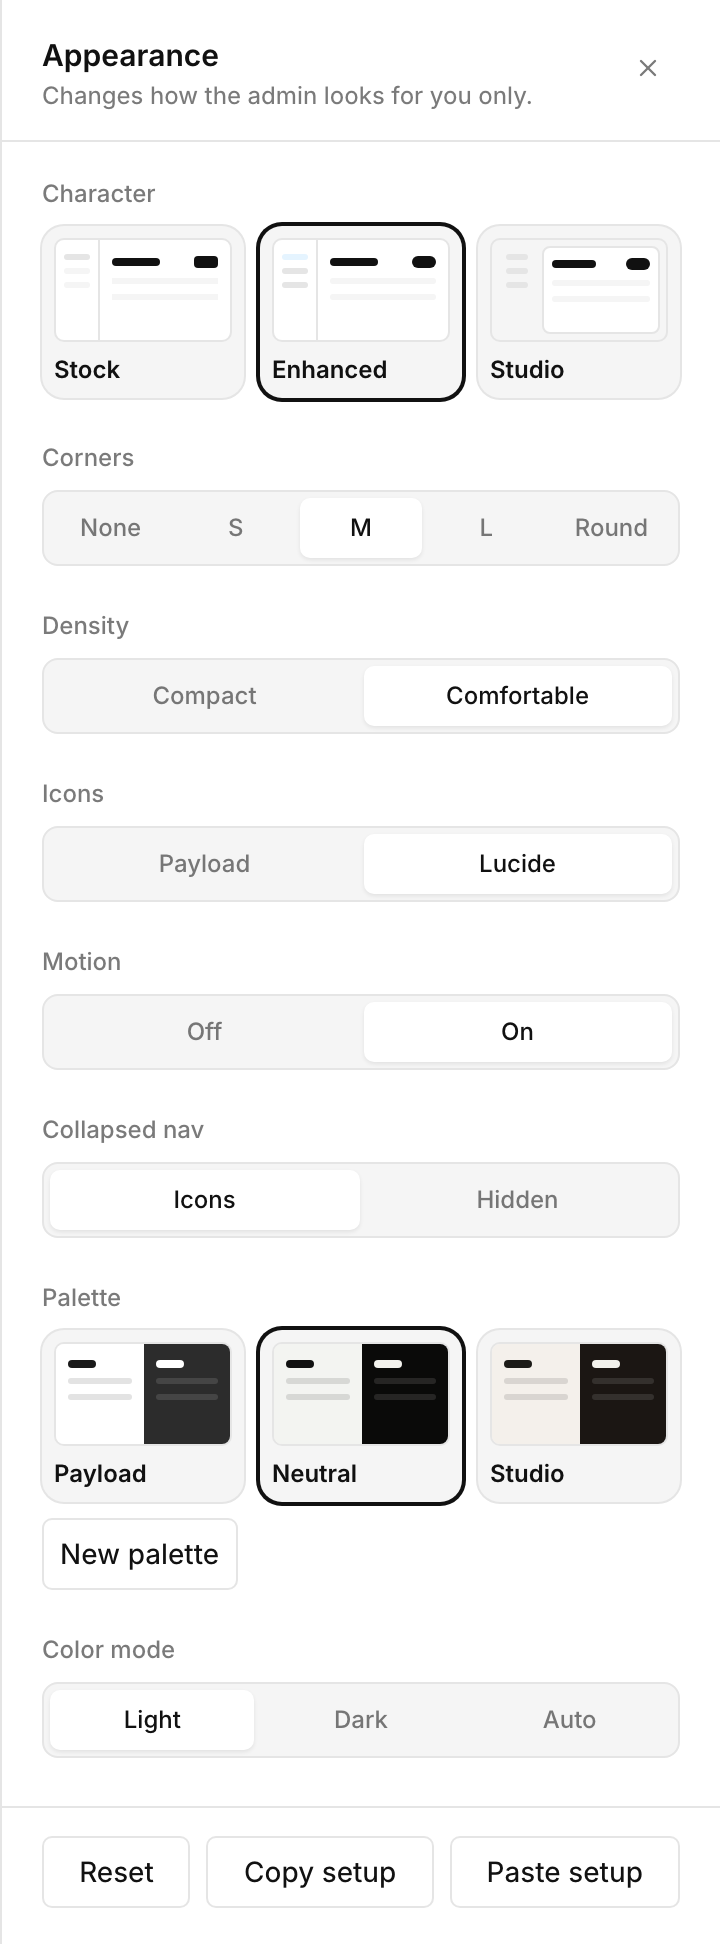
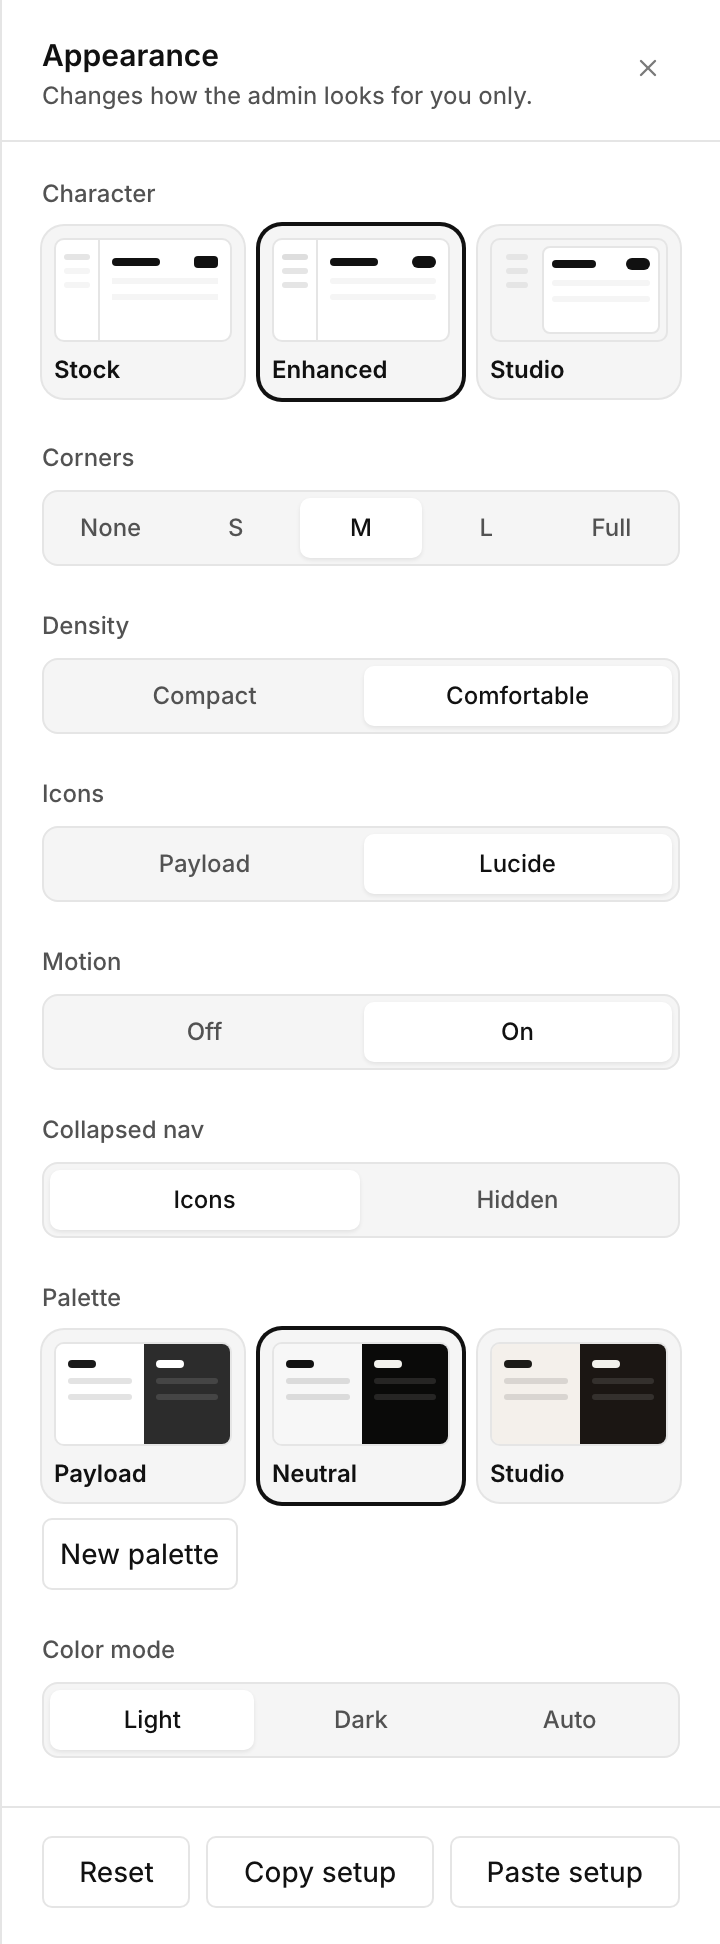
feat(radius): derive menu corners and fix Full

diff --git a/apps/demo/tests/theme.e2e.spec.ts b/apps/demo/tests/theme.e2e.spec.ts
@@ -750,12 +750,29 @@ test.describe('Radius', () => {
     await expect(page.locator('.popup__content:visible').first()).toHaveCSS('border-radius', '0px')
   })
 
-  test('full makes buttons pills and keeps fields on the large tier', async ({ page }) => {
+  test('full makes buttons, fields, tabs and menus pills without doming collapsibles', async ({ page }) => {
     await page.context().addCookies([appearance({ options: { enhanced: { radius: 'full' } } })])
     await openShowcase(page)
 
-    await expect(page.locator(button).first()).toHaveCSS('border-radius', '9999px')
-    await expect(page.locator(field).first()).toHaveCSS('border-radius', '8px')
+    await expect(page.locator(button).first()).toHaveCSS('border-radius', '18px')
+    await expect(page.locator(field).first()).toHaveCSS('border-radius', '18px')
+    await expect(page.locator('.sidebar-tabs__tab').first()).toHaveCSS('border-radius', '18px')
+    await expect(page.locator('.collapsible__toggle-wrap').first()).toHaveCSS('border-top-left-radius', '18px')
+
+    await page.getByRole('button', { name: 'More options' }).first().click()
+    await expect(page.locator('.popup__content:visible').first()).toHaveCSS('border-radius', '22px')
+  })
+
+  test("studio's large menus and toasts follow their items, not the card tier", async ({ page }) => {
+    await page.context().addCookies([appearance({ character: 'studio' })])
+    await openShowcase(page)
+
+    await page.getByRole('button', { name: 'More options' }).first().click()
+    await expect(page.locator('.popup__content:visible').first()).toHaveCSS('border-radius', '12px')
+
+    await page.goto('/admin/toasts')
+    await page.getByRole('button', { name: 'Error', exact: true }).click()
+    await expect(page.locator('.payload-toast-item[data-type="error"]')).toHaveCSS('border-radius', '12px')
   })
 })
 

diff --git a/packages/theme/src/characters/enhanced/enhanced.css b/packages/theme/src/characters/enhanced/enhanced.css
@@ -1,14 +1,11 @@
 @layer payload {
   html[data-character='enhanced'] {
-    /* 1. Shape */
-    --popup-radius: calc(var(--radius-medium) + min(var(--radius-medium), var(--spacer-1)));
-
-    /* 2. Date picker */
+    /* 1. Date picker */
     .react-datepicker {
       box-shadow: var(--elevation-400-menu-panel);
     }
 
-    /* 3. Checkbox and radio */
+    /* 2. Checkbox and radio */
     .checkbox-input__mark-halo {
       display: none;
     }
@@ -17,9 +14,8 @@
       border-width: var(--stroke-width-small);
     }
 
-    /* 4. Toasts */
+    /* 3. Toasts */
     .payload-toast-item {
-      border-radius: var(--popup-radius);
       box-shadow: var(--elevation-400-menu-panel);
     }
 
@@ -38,7 +34,7 @@
       }
     }
 
-    /* 5. Nav */
+    /* 4. Nav */
     --payloadpack-nav-button-area: inline-start;
 
     .nav__close {

diff --git a/packages/theme/src/styles/appearance-panel.css b/packages/theme/src/styles/appearance-panel.css
@@ -3,7 +3,7 @@
     /* 1. Measures */
     --payloadpack-panel-gutter: 1.25rem;
     --payloadpack-panel-inset: 3px;
-    --payloadpack-panel-radius: calc(var(--radius-medium) + var(--payloadpack-panel-inset));
+    --payloadpack-panel-radius: calc(var(--button-radius) + var(--payloadpack-panel-inset));
     --payloadpack-panel-control-height: calc(var(--field-min-height-large) - 2 * var(--payloadpack-panel-inset));
 
     /* 2. Icon buttons */
@@ -315,7 +315,7 @@
         flex: 1 1 0;
         min-width: 0;
         height: var(--payloadpack-panel-control-height);
-        border-radius: var(--radius-medium);
+        border-radius: var(--button-radius);
         color: var(--color-text-secondary);
         font-weight: 500;
         cursor: pointer;

diff --git a/packages/theme/src/characters/shared.css b/packages/theme/src/characters/shared.css
@@ -25,13 +25,13 @@
       gap: 2px;
       padding: 3px;
       border: var(--stroke-width-small) solid var(--color-border);
-      border-radius: calc(var(--radius-medium) + 3px);
+      border-radius: calc(var(--button-radius) + 3px);
     }
 
     .sidebar-tabs__tab {
       height: calc(var(--field-min-height-large) - 6px);
       border: 0;
-      border-radius: var(--radius-medium);
+      border-radius: var(--button-radius);
     }
 
     /* 3. Nav */

diff --git a/packages/theme/src/options/radius.css b/packages/theme/src/options/radius.css
@@ -26,7 +26,15 @@
 
     /* 4. Full */
     &[data-radius='full'] {
-      --button-radius: var(--radius-full);
+      --button-radius: calc(var(--field-min-height-large) / 2);
+      --field-border-radius: var(--button-radius);
+    }
+
+    /* 5. Menus and toasts */
+    --popup-radius: calc(var(--popup-item-radius) + min(var(--popup-item-radius), var(--spacer-1)));
+
+    .payload-toast-item {
+      border-radius: var(--popup-radius);
     }
   }
 }

diff --git a/packages/theme/src/translations.ts b/packages/theme/src/translations.ts
@@ -41,7 +41,7 @@ const payloadpack = {
   pasteSetup: 'Paste setup',
   primary: 'Primary',
   radius: 'Corners',
-  radiusFull: 'Round',
+  radiusFull: 'Full',
   radiusLg: 'L',
   radiusMd: 'M',
   radiusNone: 'None',

diff --git a/README.md b/README.md
@@ -75,7 +75,7 @@ The panel opens as a sheet on the right and fills the screen on phones. Every ch
 
 | Option        | Values                 | Enhanced default | Studio default |
 | ------------- | ---------------------- | ---------------- | -------------- |
-| Corners       | None, S, M, L, Round   | M                | L              |
+| Corners       | None, S, M, L, Full    | M                | L              |
 | Typeface      | Payload, Geist, System |                  | Geist          |
 | Frame         | Boxed, Flat            |                  | Boxed          |
 | Density       | Compact, Comfortable   | Comfortable      | Comfortable    |
@@ -84,12 +84,12 @@ The panel opens as a sheet on the right and fills the screen on phones. Every ch
 | Collapsed nav | Icons, Hidden          | Icons            | Icons          |
 
 - **Enhanced** and **Studio** both draw a 2px focus ring, widen the nav to 288px and line its buttons, tabs and items up 12px from its edges, inset the sidebar tabs and the dividers between nav groups, and move each nav group's chevron to the end of its row.
-- **Enhanced** rounds popups and toasts a little more and lifts the date picker and toasts like menus.
+- **Enhanced** lifts the date picker and toasts like menus.
 - **Studio** keeps the nav on the field, puts the collapse button at its top left, and moves the user menu to the bottom of it.
 - Every palette except Payload's draws the focus ring in the text color, gives all fields one border color, fades disabled and read-only fields to half their colors, softens checkbox and radio rings, raises the selected nav link like the active sidebar tab in light mode, mutes the other nav links, fills the hovered menu item neutrally instead of with the accent, fills a hovered nav group heading like a link, and raises the active sidebar tab like the panel's segments.
 - **Neutral** puts white cards and inputs on a soft `oklch(97.5% 0 none)` grey with `#111111` text in light mode, gives dark mode a near-black palette, and takes its text color as both primary and accent, so selections, links and marks are greys and nothing is blue. It fills checked checkboxes and selected radios with the text color instead of the accent.
 - **Studio**, the palette, mixes a faint share of the accent into a warm off-white field and nav, with white cards and lines tinted the same way. Dark mode mixes it into near-black. Selected items take a soft fill of the accent.
-- **Corners** scales Payload's own corner sizes. M keeps them as they are, None squares every corner, S and L make them smaller or larger, and Round is L with pill-shaped buttons.
+- **Corners** scales Payload's own corner sizes. M keeps them as they are, None squares every corner, S and L make them smaller or larger, and Full is L with pill-shaped buttons, fields and tabs. Menus and toasts round a little more than the items inside them at every size, instead of taking the card size.
 - **Geist** uses [Geist](https://vercel.com/font), bundled in the package under the SIL Open Font License, so builds need no network; the browser downloads it only when an editor uses it. **Payload** keeps Inter. **System** uses the operating system's font.
 - **Boxed** puts each view in a soft card with a border and rounded corners. **Flat** drops the card and keeps the nav's border.
 - **Comfortable** sets 14px body text, 36px fields and buttons, 32px menu items and 18px checkboxes and radios, keeps nav group labels at 12px, gives dialogs more room, and fixes Payload components that hard-code their sizes.

diff --git a/docs/appearance.md b/docs/appearance.md
@@ -19,7 +19,7 @@ Three built-in characters. Apps cannot register their own. A character owns ever
 | Character | What it is                                                                                                                         |
 | --------- | ---------------------------------------------------------------------------------------------------------------------------------- |
 | Stock     | Payload's own layout and behavior. No options.                                                                                     |
-| Enhanced  | Payload touched up without changing its structure: roomier, rounder popups and tabs, Lucide icons. The zero-config default.        |
+| Enhanced  | Payload touched up without changing its structure: roomier, lifted date picker and toasts, Lucide icons. The zero-config default.  |
 | Studio    | The first bold character: each view sits in a soft card on a field, the nav collapses to a rail, the user menu sits at the bottom. |
 
 Characters restyle only through CSS and Payload's own slots (providers, header actions, nav slots). No Payload view is replaced: no dashboard, command palette, login or document outline.
@@ -228,7 +228,7 @@ From Payload 4.0.0-beta.6's CSS:
   - Payload's blue info backgrounds and presence badges take the accent too.
   - A palette without an accent keeps Payload's exact ramp. A palette that sets `#0d99ff` gets mixed shades instead.
   - No component hard-codes a blue.
-- `radius`: `--radius-small`, `--radius-medium`, `--radius-large`, `--button-radius`, `--field-border-radius`, `--popup-radius` and `--popup-item-radius`. Components pick a tier directly, so the option sets the tiers.
+- `radius`: `--radius-small`, `--radius-medium`, `--radius-large`, `--button-radius`, `--field-border-radius`, `--popup-radius` and `--popup-item-radius`. Components pick a tier directly, so the option sets the tiers. Menus and toasts take `--popup-radius`, the menu item's corner plus up to 4px, instead of Payload's card tier. `full` sets `--button-radius` and `--field-border-radius` to half the control height rather than 9999px: controls still draw as pills, and taller boxes that read the same token, such as collapsibles and the focus ring, keep plain corners.
 - `font`: `--font-family-sans`. Payload loads Inter with `next/font` as an unlayered class on `<html>`, so the option needs a layered `!important` declaration. Geist ships in the package as a variable woff2 under the SIL Open Font License, declared with `@font-face` in `styles/index.css` as `payloadpack-geist`, so builds need no network and the browser downloads it only when an editor uses it.
 - `density`: what `density.css` already does.
 - `motion`: what Payload 3 animated and Payload 4 dropped:
